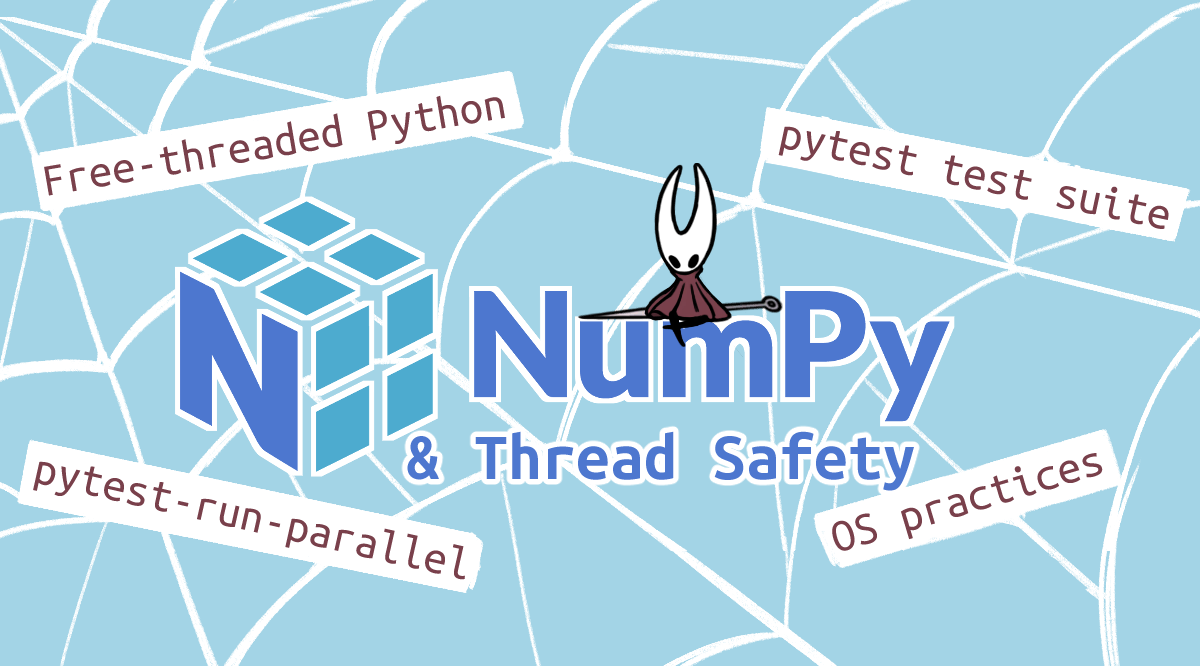
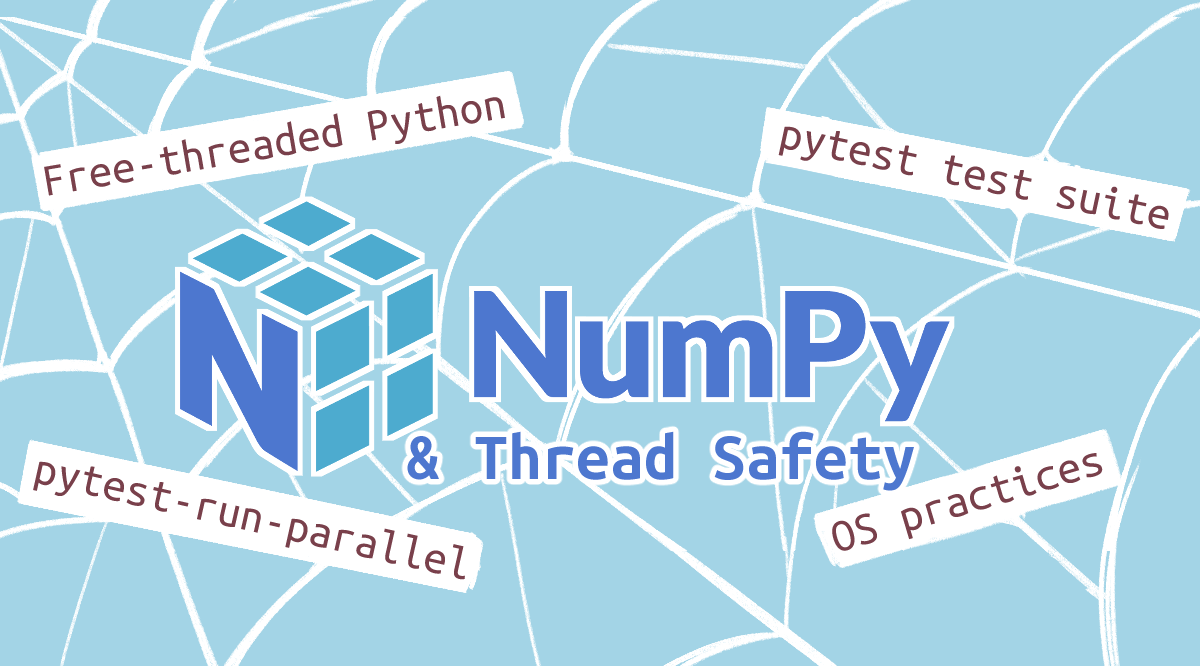
Edit: Change image, add suggestion

Changed region(s): [[0.4933, 0.2402, 0.6475, 0.5105]]

diff --git a/apps/labs/posts/numpy-thread-safe-test-suite.md b/apps/labs/posts/numpy-thread-safe-test-suite.md
@@ -312,7 +312,7 @@ def test_with_file_two(file_fixture):
 
 ### 4. Misc Fixes
 
-Outside of these three major changes, there were a few other thread-unsafe bugs that I was able to fix. I'll note some here:
+Outside of these three major changes, there were a few other thread safety bugs that I was able to fix. I'll note some here:
 
 - There were some usages of `@pytest.mark.parametrize` that led to data races. We concluded that the test threads were trying to modify the parameterized values at the same time. Kinda weird, but it was easily fixed with `.copy()` (a classic solution to all sorts of mutation errors that I happen to be a fan of, thank you Lysandros for this suggestion).
 
